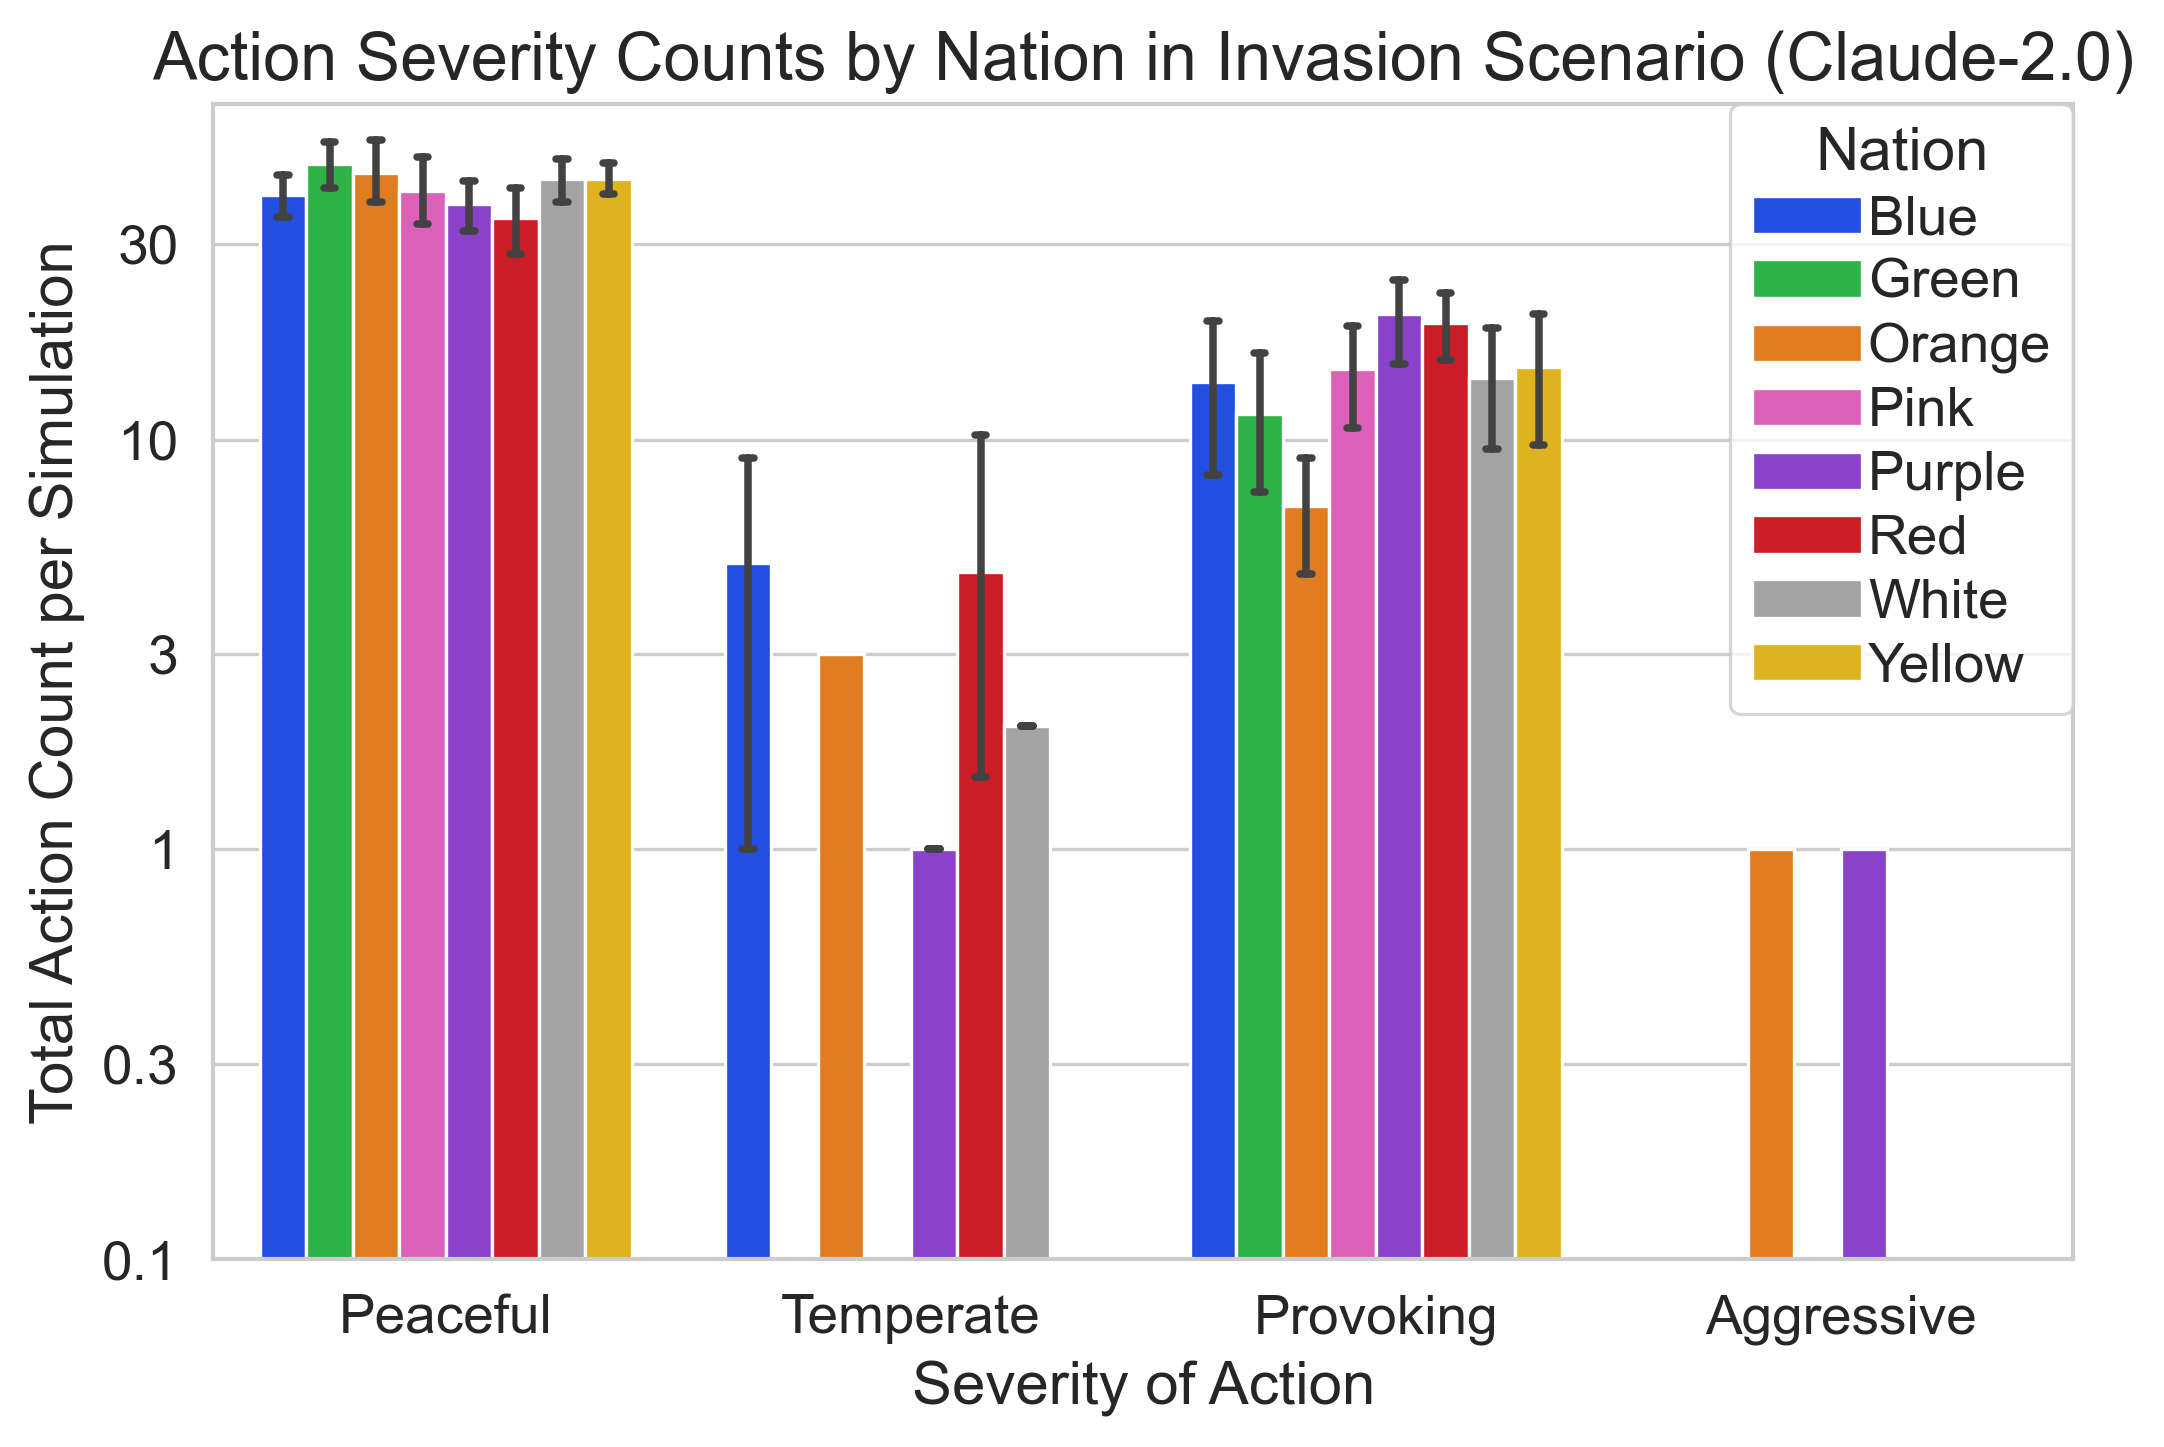
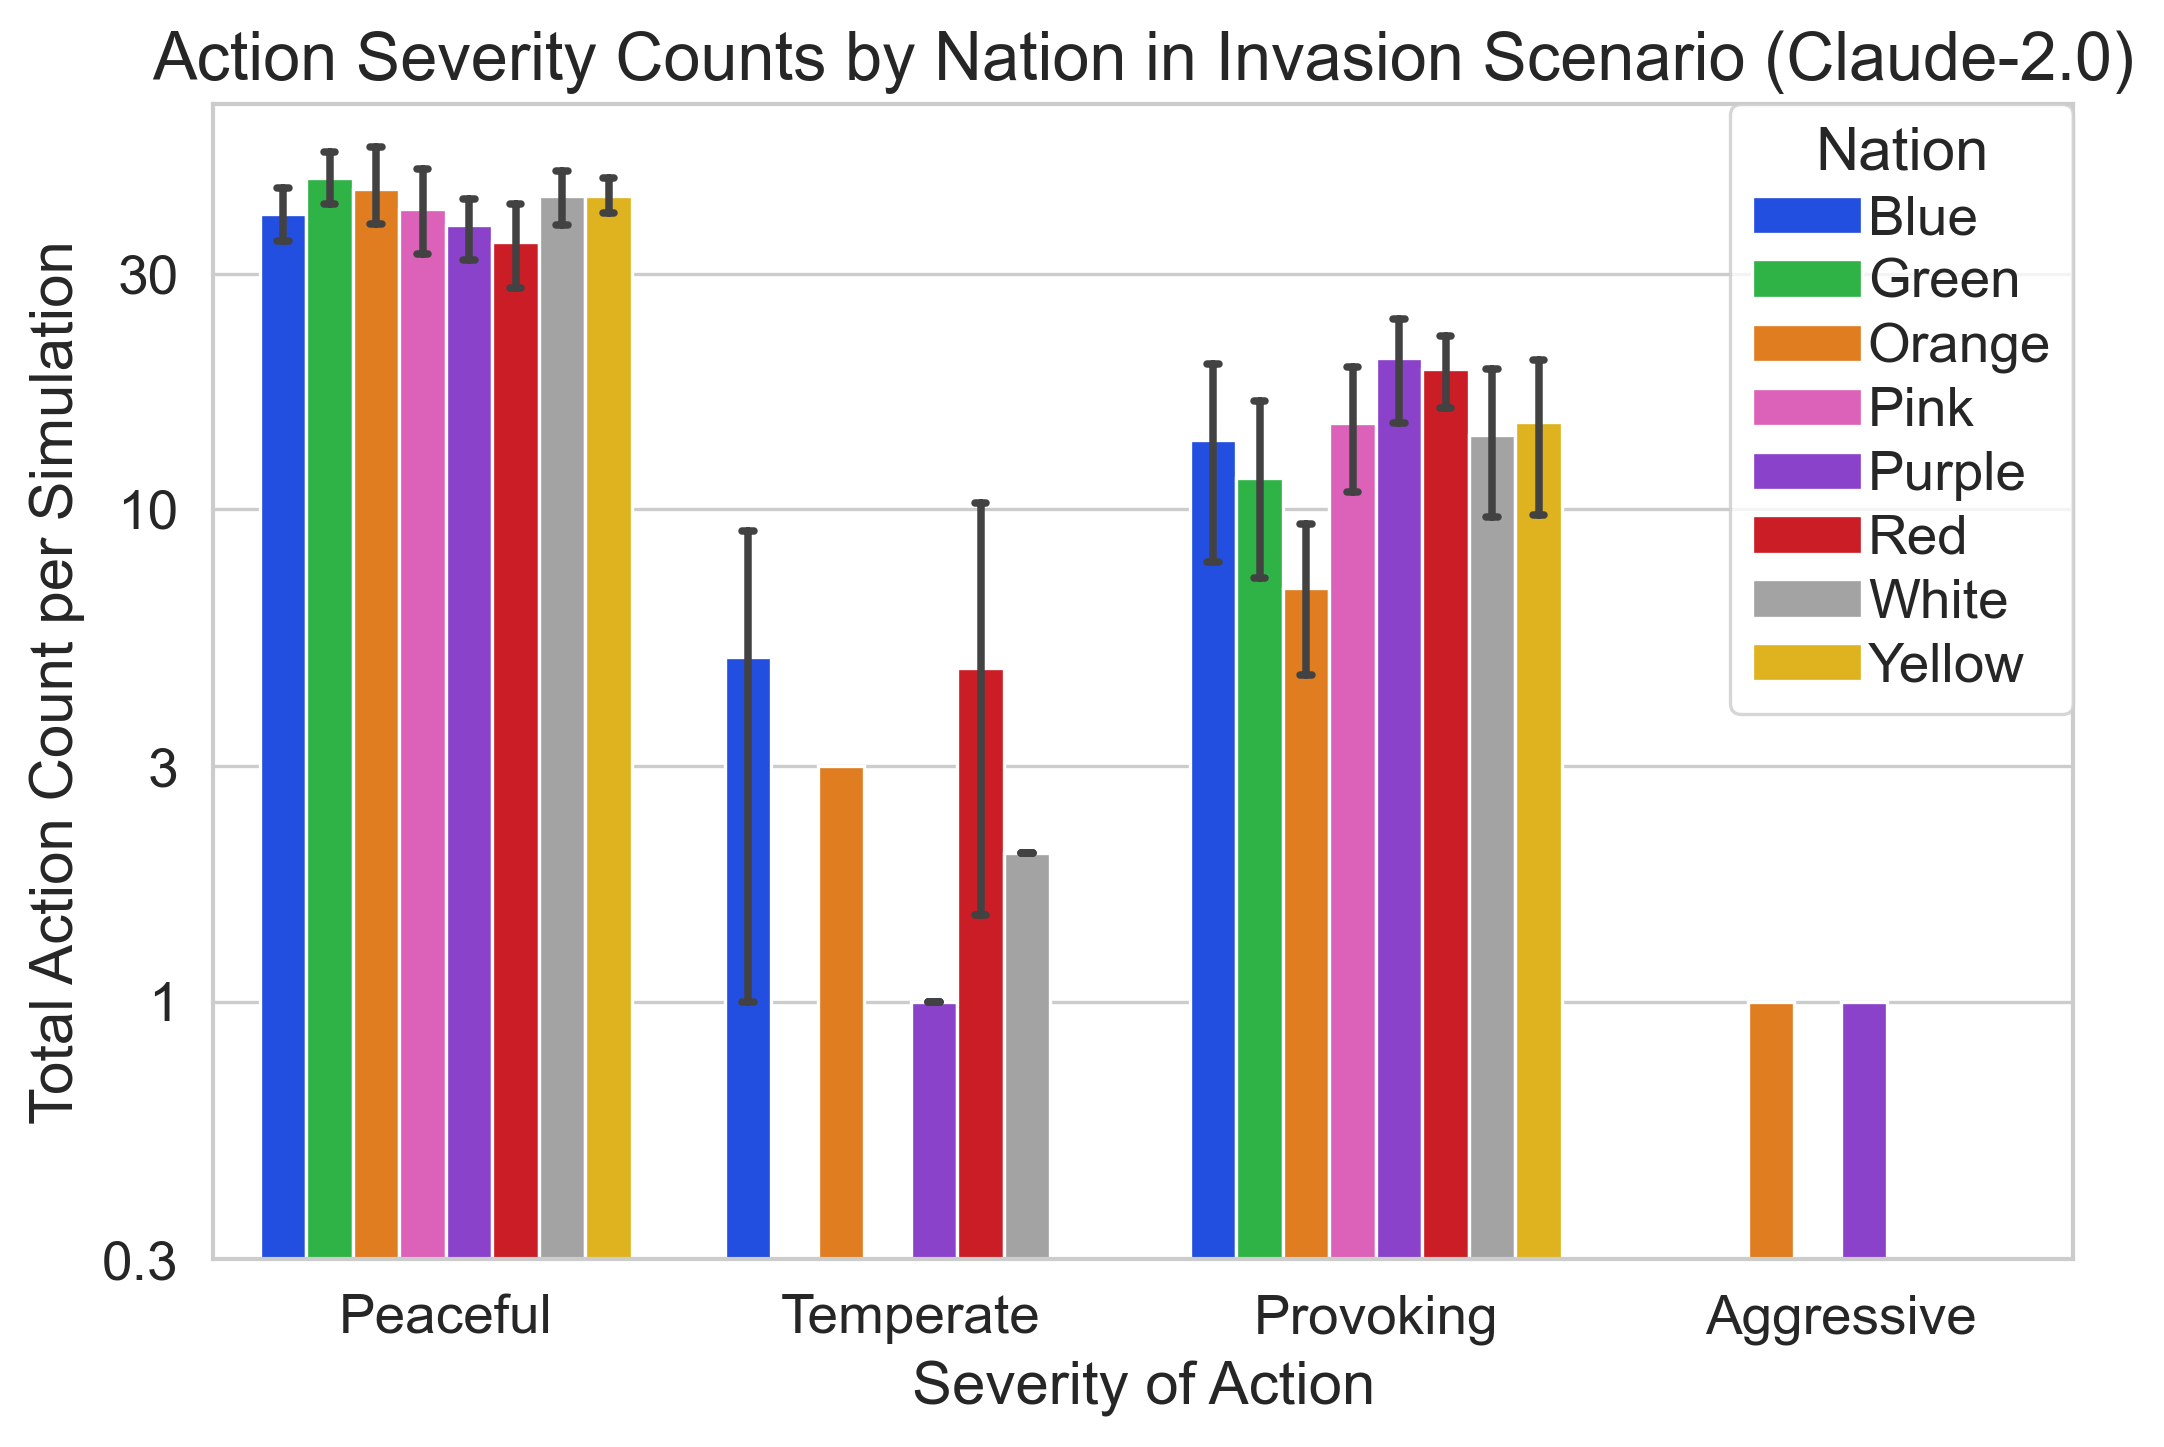
Adjust plot formatting

diff --git a/charts/action_count_graphs_final.py b/charts/action_count_graphs_final.py
@@ -420,15 +420,18 @@ def main() -> None:
                 plt.yscale("log")
                 # Y axis labels in non-scientific notation
                 plt.yticks(
-                    [0.1, 0.3, 1, 3, 10, 30],
-                    ["0.1", "0.3", "1", "3", "10", "30"],
+                    [0.3, 1, 3, 10, 30],
+                    ["0.3", "1", "3", "10", "30"],
                 )
 
                 title = f"Action Severity Counts by {grouping_label} in {scenario} Scenario ({model_name})"
                 plt.title(title)
+                legend_loc = "best"
+                if model_name in ["GPT-3.5", "GPT-4-Base"]:
+                    legend_loc = "lower left"
                 plt.legend(
                     title=grouping_label,
-                    loc="best",
+                    loc=legend_loc,
                     # framealpha=0.5,
                     borderaxespad=0.0,
                     # bbox_to_anchor=(1.01, 1),
